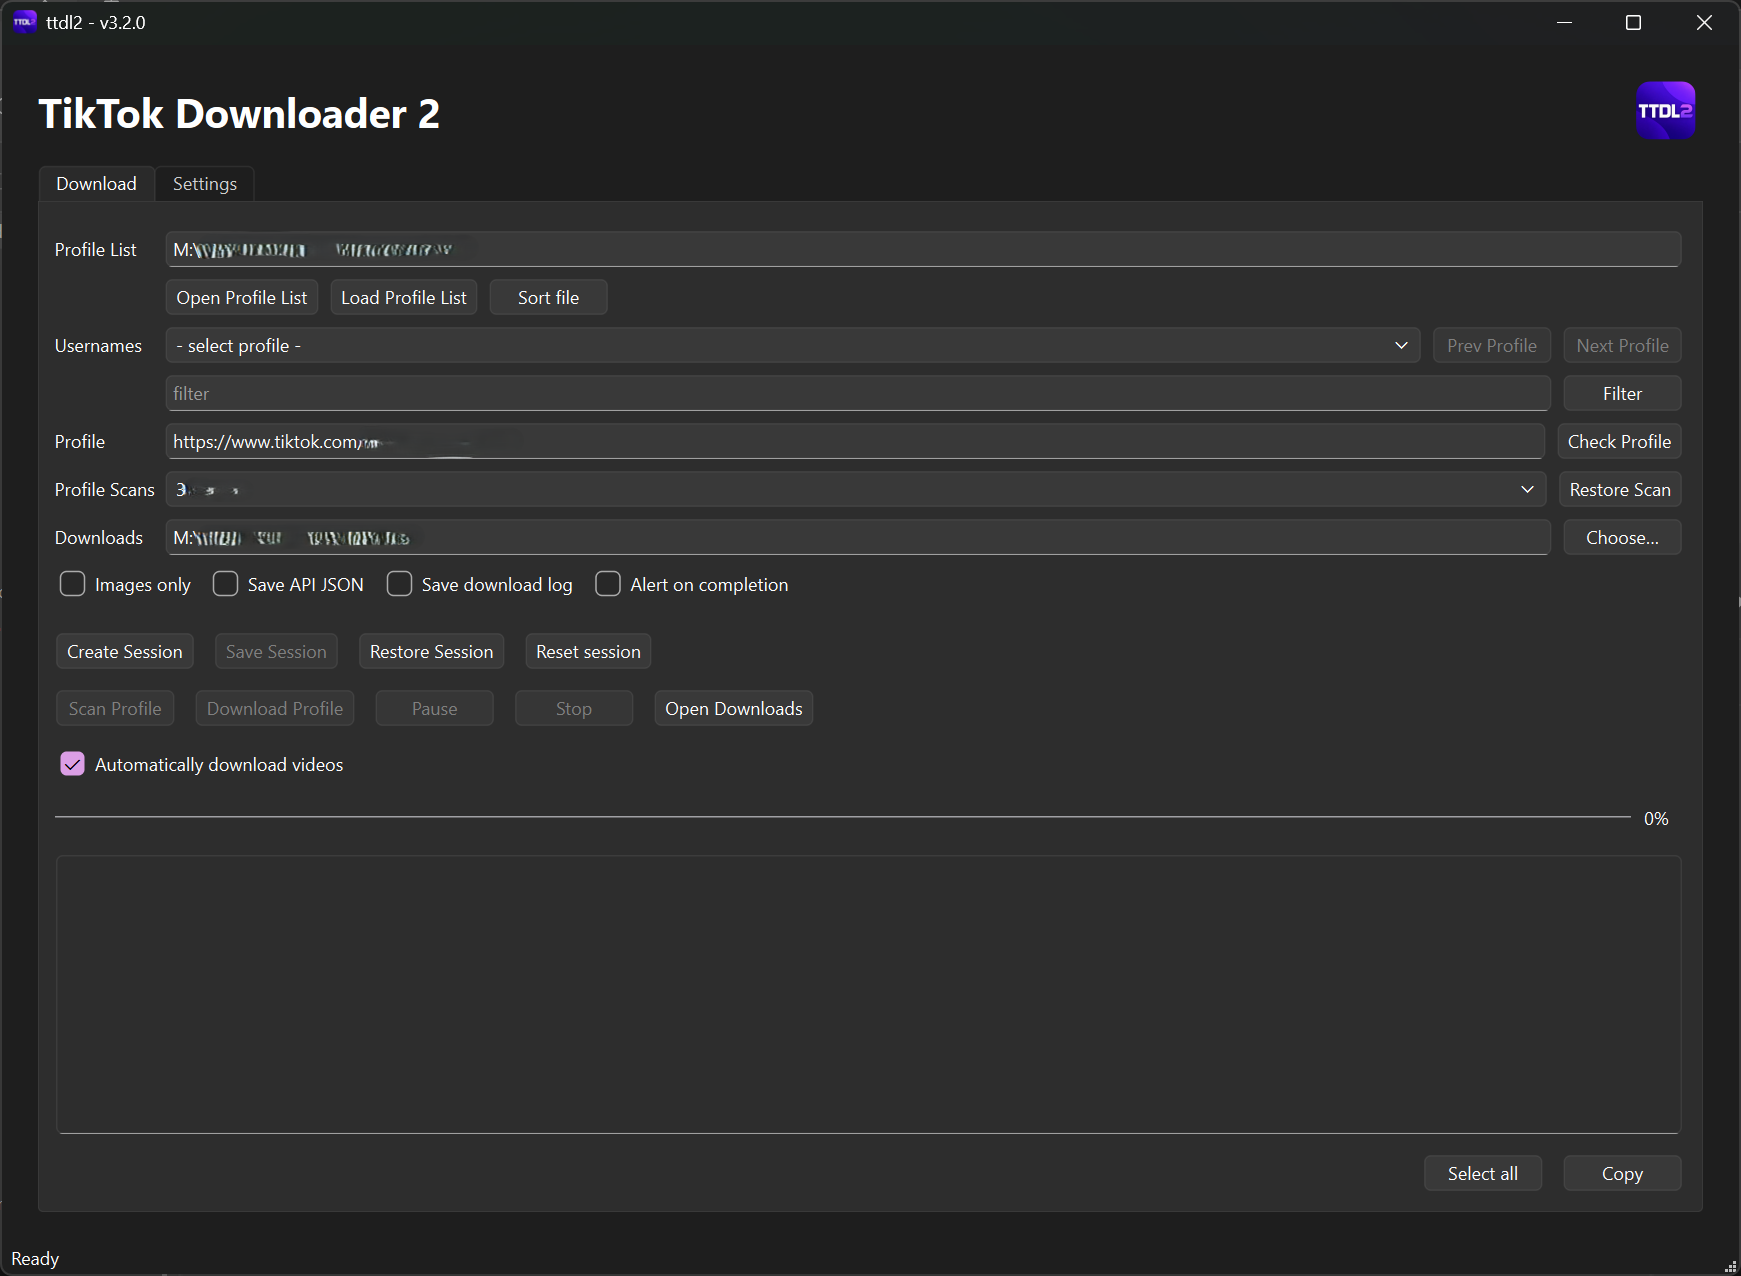
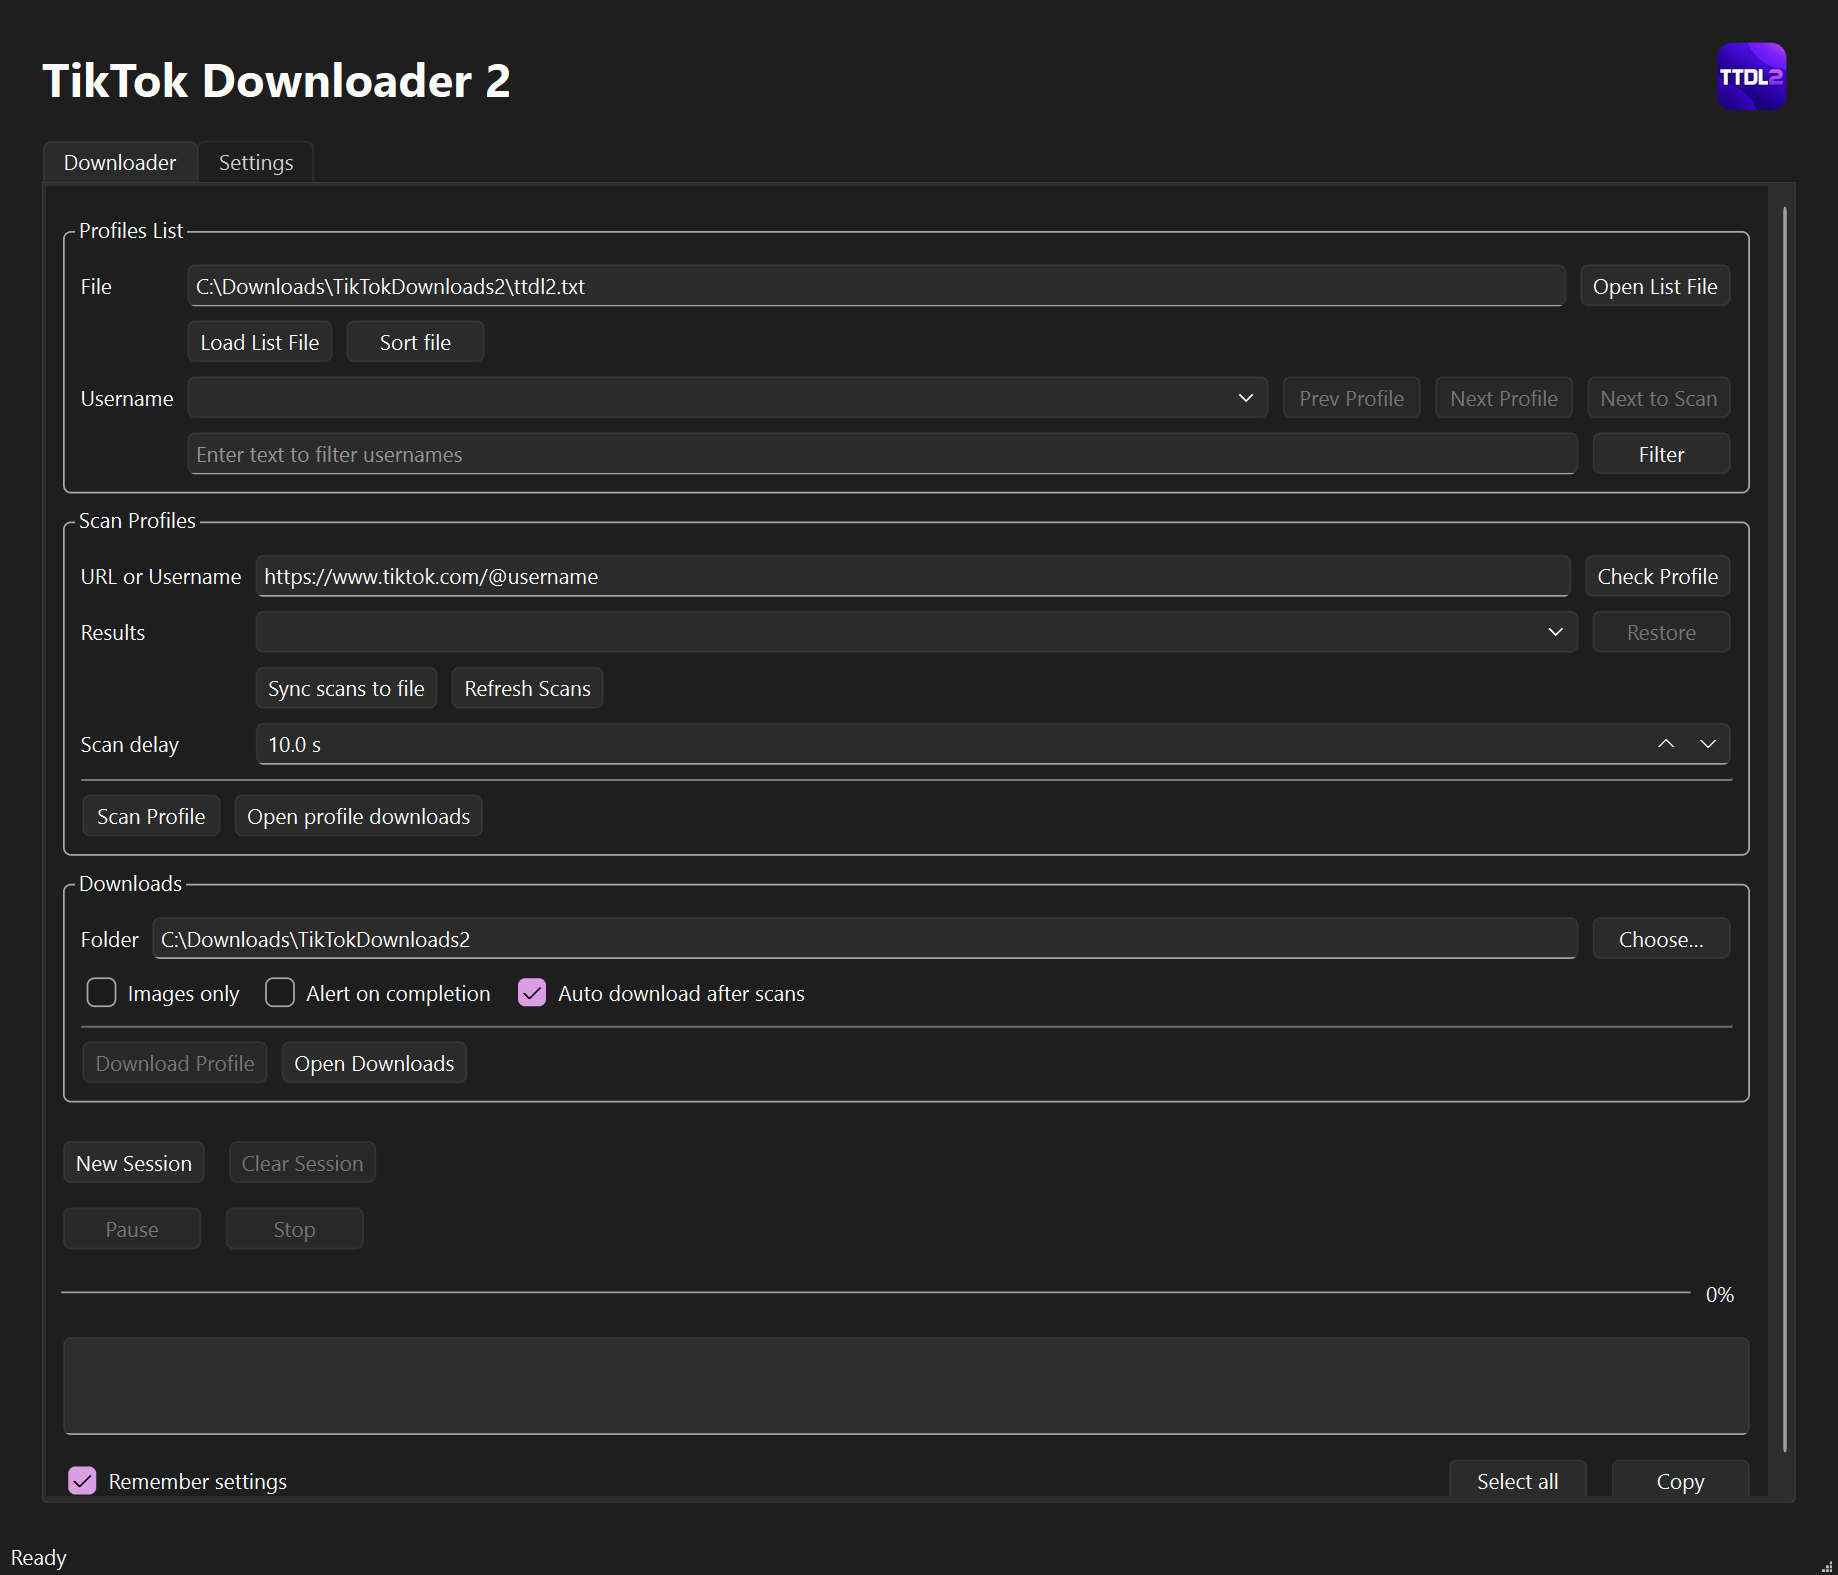
Skip unavailable media and continue batch downloads

diff --git a/tiktok_downloader/core.py b/tiktok_downloader/core.py
@@ -208,23 +208,27 @@ class Downloader:
             destination.parent.mkdir(parents=True, exist_ok=True)
             self.log(f"Downloading {destination.name}")
             partial = destination.with_suffix(destination.suffix + ".part")
-            with session.get(asset_url, stream=True, timeout=120) as response, partial.open("wb") as file:
+            with session.get(asset_url, stream=True, timeout=120) as response:
+                if response.status_code == 404:
+                    self.log(f"Skipped unavailable media: {destination.name} (HTTP 404)")
+                    continue
                 response.raise_for_status()
-                pending_bytes = 0
-                last_update = monotonic()
-                while self.control.checkpoint():
-                    chunk = response.raw.read(65536)
-                    if not chunk:
-                        break
-                    file.write(chunk)
-                    pending_bytes += len(chunk)
-                    now = monotonic()
-                    if now - last_update >= 0.25:
+                with partial.open("wb") as file:
+                    pending_bytes = 0
+                    last_update = monotonic()
+                    while self.control.checkpoint():
+                        chunk = response.raw.read(65536)
+                        if not chunk:
+                            break
+                        file.write(chunk)
+                        pending_bytes += len(chunk)
+                        now = monotonic()
+                        if now - last_update >= 0.25:
+                            self.emit({"type": "transfer", "bytes": pending_bytes})
+                            pending_bytes = 0
+                            last_update = now
+                    if pending_bytes:
                         self.emit({"type": "transfer", "bytes": pending_bytes})
-                        pending_bytes = 0
-                        last_update = now
-                if pending_bytes:
-                    self.emit({"type": "transfer", "bytes": pending_bytes})
             if self.control.stopped.is_set():
                 return False
             partial.replace(destination)

diff --git a/tests/conftest.py b/tests/conftest.py
@@ -40,6 +40,13 @@ def server():
                     "author": {"unique_id": "alice"}, "hdplay": origin + "/media/hd.mp4",
                     "images": [origin + "/media/1.jpg", origin + "/media/2.jpg"],
                 }})
+            elif parsed.path == "/api/hd-missing":
+                media_id = parse_qs(parsed.query)["url"][0]
+                media_path = "/media/missing.mp4" if media_id == "123" else "/media/hd.mp4"
+                self.send_json({"code": 0, "data": {
+                    "author": {"unique_id": "alice"}, "hdplay": origin + media_path,
+                    "images": [origin + "/media/1.jpg", origin + "/media/2.jpg"],
+                }})
             elif parsed.path == "/@alice":
                 self.send_response(200)
                 self.send_header("Content-Type", "text/html")
@@ -62,6 +69,9 @@ def server():
             elif parsed.path == "/t/short":
                 self.send_response(302)
                 self.send_header("Location", origin + "/@alice/video/123")
+                self.end_headers()
+            elif parsed.path == "/media/missing.mp4":
+                self.send_response(404)
                 self.end_headers()
             elif parsed.path.startswith("/media/"):
                 self.send_response(200)

diff --git a/tests/test_downloads.py b/tests/test_downloads.py
@@ -92,6 +92,20 @@ def test_original_hd_provider_failure_is_not_replaced(path, error, job_factory, 
     assert server[1][path] == 1
     assert not list(Path(job.folder).rglob("*.mp4"))
 
+def test_missing_media_is_skipped_and_batch_continues(job_factory, server):
+    job = job_factory(hd_api=server[0] + "/api/hd-missing")
+    events = []
+    Downloader(job, events.append, Control()).run([
+        server[0] + "/@alice/video/123",
+        server[0] + "/@alice/video/789",
+    ])
+    root = Path(job.folder) / "alice" / "video"
+    assert not (root / "123_HD.mp4").exists()
+    assert not (root / "123_HD.mp4.part").exists()
+    assert (root / "789_HD.mp4").read_bytes() == b"fixture-media:/media/hd.mp4"
+    assert {"type": "log", "message": "Skipped unavailable media: 123_HD.mp4 (HTTP 404)"} in events
+    assert events[-1] == {"type": "done", "stopped": False}
+
 def test_parsing(tmp_path):
     assert post_parts("https://www.tiktok.com/@a.b/photo/123/?x=1") == ("a.b", "photo", "123")
     assert profile_name("https://www.tiktok.com/@a.b/?lang=en") == "a.b"
